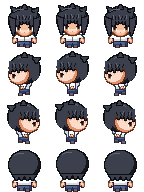
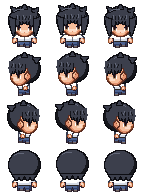
ちびキャラ：横向きの頭と胴体を手本に合わせる（顔の位置、耳、前髪、目、鼻、明暗、後ろ髪、胴の幅、手、足）
Claude-Session: https://claude.ai/code/session_017gxvkc2TW4xYgG5MuSL3N1

diff --git a/files.js b/files.js
@@ -2,7 +2,7 @@
 // マップなどを足したら scripts に1行足す（順番どおりに読み込む。main.js は最後）。
 // 版の番号 v は tools/stamp.py が書き換える。
 window.FILES = {
-  v: '20261127043822',
+  v: '20261127044305',
   scripts: [
     'engine/core.js',
     'engine/world.js',

diff --git a/tools/sprites/make_chibi.py b/tools/sprites/make_chibi.py
@@ -118,18 +118,23 @@ def body(a, c, side, step, back):
     girl = c['girl']
     la, ra = {0: (1.2, 0), 1: (0, 0), 2: (0, 1.2)}[step]
     if side == 'left':
-        sw = {0: -1.6, 1: 0, 2: 1.6}[step]
+        # 横向き：胴は細く（9〜11ドット）、手は胴の中ほどより後ろ。前（左）がマイナス
+        sw = {0: -1, 1: 0, 2: 1}[step]
         if girl:
-            a.part([('p', [(-5.8, 37.4), (5.8, 37.4), (7.6, 43.6), (-7.6, 43.6)])], c['low1'], c['low2'], shade=c['low2'], line=c['line'], lw=0.7)
-            for x in (-3, 1, 5):  # 折り目
-                a.dots(x, 41 if x != 5 else 42, ['p'] * (3 if x != 5 else 2), {'p': c['low2']})
+            a.part([('p', [(-5.4, 38.4), (3.8, 38.4), (5, 43.6), (-6.8, 43.6)])], c['low1'], c['low2'], shade=c['low2'], line=c['line'], lw=0.7)
+            for x, y0 in ((-3, 41), (0, 41), (3, 42)):  # 折り目
+                a.dots(x, y0, ['p'] * (44 - y0), {'p': c['low2']})
         else:
-            a.part([('p', [(-4.2, 38.6), (4.2, 38.6), (4.4, 43.6), (-4.4, 43.6)])], c['low1'], c['low2'], shade=c['low2'], line=c['line'], lw=0.7)
-        a.part([('p', [(-3.8, 35.4), (4, 35.4), (4.4, 40.4), (-4.2, 40.4)]), ('e', -6.4, 33, 6.4, 38.2)], c['top1'], c['top2'], shade=c['top2'], line=c['topLine'], lw=0.7)
-        a.part([('p', [(-1.8, 34.4), (2, 34.4), (2 + sw, 38.6), (-1.8 + sw, 38.6)])], c['top1'], c['top2'], line=c['topLine'], lw=0.6)
-        a.dots(round(sw) - 2, 38, ['.oKE', 'oMMK', 'oLdK', '.EE.'], {'o': c['handO'], 'd': c['handO'], 'E': c['line'], 'K': c['skinS'], 'L': c['skin2'], 'M': c['skin1']})
+            a.part([('p', [(-5, 40.6), (3.6, 40.6), (4, 44.6), (-5.4, 44.6)])], c['low1'], c['low2'], shade=c['low2'], line=c['line'], lw=0.7)
+        bottom = 39.4 if girl else 40.4
+        a.part([('p', [(-4.6, 34.6), (3, 34.6), (4.4, 37.6), (4, bottom), (-5.4, bottom), (-5.6, 37.6)])], c['top1'], c['top2'], shade=c['top2'], line=c['topLine'], lw=0.7)
+        if not girl:
+            a.dots(-5, 41, ['bbbbbbbbb'], {'b': c['ribbon1']})
+        # 腕（肩から手へ）と手
+        a.part([('p', [(-0.6, 35.2), (3, 35.2), (3.4 + sw, 38.6), (0 + sw, 38.6)])], c['top1'], c['top2'], line=c['topLine'], lw=0.6)
+        a.dots(sw, 38, ['.oKo.', 'oLMKo', 'oMMKo', 'oKdKE', '.EEE.'], {'o': c['handO'], 'd': c['handO'], 'E': c['line'], 'K': c['skinS'], 'L': c['skin2'], 'M': c['skin1']})
         if girl:
-            a.part([('p', [(-5.4, 34), (-3, 34), (-4, 36.6)])], c['ribbon1'], c['ribbon2'], lw=0.4)
+            a.part([('p', [(-5.2, 35), (-3, 35), (-4, 37.4)])], c['ribbon1'], c['ribbon2'], lw=0.4)
         feet(a, c, 'side', step)
         return
     # 正面。あごの下（35行）から なで肩で始まり、下へ広がる
@@ -180,8 +185,9 @@ def feet(a, c, side, step):
         for x0, l in ((-5, lift[0]), (1, lift[1])):
             a.dots(x0, 45 - l, foot, pal)
     else:
-        if step == 1:
-            a.dots(-3, 45, foot, pal)
+        if step == 1:  # 前後の足が並んで見える（奥の足を先に描く）
+            a.dots(-1, 45, ['olllo', 'odddo', 'odddo'], pal)
+            a.dots(-5, 45, foot, pal)
         else:
             a.dots(1, 44, ['olllo', 'odddo', 'odddo'], pal)  # 奥の足（上がっている）
             a.dots(-6, 45, foot, pal)
@@ -196,8 +202,10 @@ EYE_BOY = ['.EEE.', 'giEEE', 'wiPig', 'wIPIw', 'wKKKw']
 def eye(a, c, cx, flip=False, side=False):
     if isinstance(a, Pixel):
         rows = EYE_GIRL if c['girl'] else EYE_BOY
-        if side:
-            rows = [r[1:] for r in rows]
+        if side:  # 横向き：前（左）が黒目、後ろが白目。4ドット幅
+            rows = [r[::-1][1:] for r in rows]
+            a.dots(round(cx) - 2, 25, rows, {'E': c['lash'], 'P': c['lash'], 'w': (255, 255, 255), 'g': (214, 208, 216), 'i': c['iris1'], 'I': c['iris2'], 'K': c['iris3']})
+            return
         if flip:
             rows = [r[::-1] for r in rows]
         w = len(rows[0])
@@ -277,6 +285,31 @@ def face_shade(a, c, m, hw_top=9):
             a.im.putpixel((X, Y), rgb_t(tone[t]))
 
 
+def side_face_shade(a, c, m):
+    """横顔の明暗：前の縁は濃い影、前寄りの頬（28〜31行）がいちばん明るく、耳に近い後ろほど暗い。あごの段は影色"""
+    tone = {1: c['skin1'], 2: c['skin2'], 3: c['skinS'], 4: c['handO']}
+    px = m.load()
+    for Y in range(FH):
+        xs = [X for X in range(FW) if px[X, Y] > 127]
+        if not xs:
+            continue
+        L, R = min(xs), max(xs)
+        for X in xs:
+            df, db = X - L + 1, R - X + 1
+            t = 2 if Y <= 27 else (1 if df <= 7 else 2) if Y <= 31 else 2 if Y <= 33 else 3
+            if df == 1:
+                t = max(t, 4 if Y >= 29 else 3)
+            elif df == 2 and t == 1:
+                t = 2
+            if db == 1:
+                t = max(t, 4)
+            elif db <= 3:
+                t = max(t, 3)
+            elif db <= 5:
+                t = max(t, 2)
+            a.im.putpixel((X, Y), rgb_t(tone[t]))
+
+
 def rgb_t(c):
     return tuple(c[:3]) + (255,)
 
@@ -295,24 +328,25 @@ def head(a, c, side):
             a.clip(hm, [('e', -11, 8.4, 1, 11.6)], c['hairL'], 0.45, blur=0.6)
         return
     if side == 'left':
-        if girl:
-            a.part([('p', [(1, 14), (15.6, 14), (15, 36), (9, 38.6), (3, 33)])], c['hair1'], c['hair2'], shade=c['hair2'], line=c['hairLine'])
+        # 横向き：顔は頭の前・下寄り（x −12〜+1）、後ろに耳。いちばん前の前髪は額の前に垂れる
+        if girl:  # 後ろ髪はあごの高さまで
+            a.part([('p', [(1, 14), (15.6, 14), (15.4, 32.6), (10.4, 35.2), (3, 32)])], c['hair1'], c['hair2'], shade=c['hair2'], line=c['hairLine'])
         hm = a.part([('e', -14.2, 7 if girl else 6.4, 14.6, 33)], c['hair1'], c['hair2'], shade=c['hair2'], line=c['hairLine'])
-        fm = a.part([('e', -15.4, 15.6, 3.6, 33.6)], c['skin1'], c['skin2'], shade=c['skinS'], line=c['skinLine'], lw=0.6)
-        a.clip(fm, [('r', -16, 17, 4, 19.4)], c['skinS'], 0.5, blur=0.8)
-        bangs(a, c, -15.2, 3, [(-15.6, -12, 22.6), (-11.6, -8.6, 20.6), (-8, -5, 21.8), (-4.4, -1.4, 20.4), (-0.8, 2.6, 21.4)], base=18, face=fm)
-        sideline = None if isinstance(a, Pixel) else c['hairLine']
-        sm = a.part([('p', [(4.6, 14), (14.4, 14), (14, 28.4), (8.6, 32.4), (5.6, 26)])], c['hair1'], c['hair2'], shade=None if isinstance(a, Pixel) else c['hair2'], line=sideline, lw=0.7)
+        fm = a.part([('e', -12.6, 16, 2.8, 34.6)], c['skin1'], c['skin2'], shade=c['skinS'], line=c['skinLine'], lw=0.6)
         if isinstance(a, Pixel):
-            a.tint(ImageChops.multiply(ImageChops.subtract(sm.filter(ImageFilter.MaxFilter(3)), sm), fm), c['hairLine'], 1.0)
+            side_face_shade(a, c, fm)
+            a.dots(-14, 29, ['lN', 'lN'], {'l': c['skinLine'], 'N': c['handO']})  # 鼻：顔の線が1ドット前に出る
+        bangs(a, c, -15.2, 3, [(-16, -12.4, 25.4), (-12.6, -9, 23.4), (-9.2, -5.6, 24.2), (-5.8, -2.4, 23), (-2.6, 1, 22.4)], base=18, face=fm)
+        # 耳（顔の後ろ）
+        a.part([('e', 1, 23.6, 4.6, 29.6)], c['skin2'], c['skin2'], shade=c['skinS'], line=c['skinLine'], lw=0.6)
         if isinstance(a, Pixel):
+            a.dots(3, 25, ['3', '4'], {'3': c['skinS'], '4': c['handO']})
             a.stroke([(-6, 9), (-2, 7), (3, 7)], c['hairL'])
         else:
             a.clip(hm, [('e', -8, 8.4, 6, 11.6)], c['hairL'], 0.45, blur=0.6)
-        eye(a, c, -10.4, side=True)
+        eye(a, c, -5, side=True)
         if girl:
-            a.blob(-13.4, 29.8, -10, 31.4, c['blush'], 0.45, 0.6)
-        a.dots(-14, 31, ['n'], {'n': c['skinS']})  # 鼻（点）
+            a.blob(-11.6, 29.8, -8.4, 31.4, c['blush'], 0.45, 0.6)
         if girl:
             a.part([('p', [(6, 9.6), (9.6, 8), (10.4, 9.8), (6.8, 11.4)])], c['ribbon1'], c['ribbon2'], lw=0.4)
         if not girl:

diff --git a/CLAUDE.md b/CLAUDE.md
@@ -10,7 +10,7 @@
 - 校舎（廊下8枚と部屋の型）は `tools/gen_school.py` で生成する。生成した `data/maps/school_*.js` は直接直さず、スクリプトを直して作り直す。お話のイベントは `data/story.js` に `G.addEvents` で足す（`at: '扉の名前'` で位置を決められる）。見取り図の施設名のうち学校が特定されそうな名前は一般的な名前に変える
 - 参考にした市販ゲームのファイル（データ・画像・音・シナリオ）はこのリポジトリに入れない
 - タイル素材（ドット絵世界）は二次配布禁止。元のPNGは入れず、`tools/encode_tileset.py` で変換した `data/tilesets/*.js` だけを入れる。タイトル画面の著作権表示（system.js の credits）は消さない
-- キャラの歩行グラフィックは、いまはちびキャラ（手本：RPGツクールMVの標準キャラの比率、約1.5頭身、1コマ48×48px）。`tools/sprites/make_chibi.py` で描き、`img/chars/haru_chibi.png`・`img/chars/yui_chibi.png` に書き出す。塗りは手本と同じくっきりしたドット絵（48×48pxに直接描く。ベタ塗り、段をつけた影と光、部品ごとに1ドットの濃い輪郭、目は1ドットずつ形を決め、白い光はほぼ使わず外側の白目と上が濃い瞳で表す。髪のかたまりは小さめで額は高め、前髪には毛束の明るい筋を1本おきに入れて凹凸を出す。女子の髪は5段（光・明・中・暗・影）で束ごとに塗り分ける（make_chibi.py の hair_shade。頭頂はつむじから放射状の束で境目に暗い線、頭の丸みに沿って束ごとに上下へずれたギザギザの天使の輪（束の真ん中だけ光の色）、前髪は束ごとに上が明るく下ほど暗く真ん中に光の筋、横・後ろの髪は縦の束で左が明るく右と下が暗い。髪型が手本と違うので、ここは手本を写さず工夫したもの）。胴は肩が細く裾へ広がる八の字で、腕も外へ開く。前髪の毛先は目の上端に接するまで下ろし、真ん中の毛束だけ短くしてそのすき間から額をのぞかせる。前髪のすぐ下の肌には影（1段目は影色、2段目は中間色）。顔の横の髪で、目の外側の端からあごの近くまで顔を縁取る（男子は細く短め）。肌は桃色がかった色（白っぽくしない）。顔は上下と左右に4段（明・中間・影・濃い影）の明暗をドット単位でつけて立体感を出す（前髪の下は中間色→目の下から頬の段がいちばん明るい→その下は中間色→あごの段は影色。左右の端は内側へ濃い影→影→中間色、頬の段は影を1段多く）。目はまるごと見せる。やや上から見下ろしつつ足先まで全身を見せる（胴→スカート／ズボン→脚1ドット（女子は肌色）→靴2ドット（上が明るく下が暗い）。左右の足は幅5ドット（輪郭＋中身3）で間に1ドットのすき間。歩くと上げた足が1ドット上がる）。目は顔の大きさを変えずに大きく、5×5ドット（上まつげは3ドット幅で2段目が内側へ1ドットずれる斜め、黒目3ドット幅で上が濃く一番下が明るい、真ん中に縦2ドットの瞳孔、白目は外側3段・内側2段の両側）。目の間は7ドットで、目の外側は顔の縁（横の髪）に接する。見下ろす角度なので、肩はあごのすぐ下の行から始まり（上の面が明るく見える）、なで肩で下へ広がる。手は丸ではなくミトン形（幅4×高さ5、外側の輪郭は茶色・内側と下は濃い線で腕と胴の境目にもなる、明るい肌は真ん中上寄りに2×2、下の段の内側が欠けてその上に親指の付け根の点）。服の輪郭も濃い色。男子はシャツ6段・ベルト1段・ズボン3段（明るめの色、股の線）。女子のスカートは下半分に、地より濃い色の縦の折り目の線（中心をはさんで4ドット間隔の2本と、裾の両端寄り）。口は省いて鼻を1ドットの点で表す（頬のいちばん明るい段の最後の行、31行目）。幅の割合は、手を含めた体が頭の約8割。その中で胴は細く、肩と手を大きめにする）。手本を使うときは、数字で測るだけでなく必ず拡大して絵そのものを見比べる。「イラストを縮めた柔らかい塗り」は4頭身のための試しで、ちびキャラには使わない。3頭身・4頭身は見送り。約4頭身の版（`make_trial.py`→`trial.png`、`make_haru.py`→`haru.png`）も残してある。手本の絵は写さない（比率と描き方だけ合わせる）。直したらスクリプトを動かして画像を作り直す
+- キャラの歩行グラフィックは、いまはちびキャラ（手本：RPGツクールMVの標準キャラの比率、約1.5頭身、1コマ48×48px）。`tools/sprites/make_chibi.py` で描き、`img/chars/haru_chibi.png`・`img/chars/yui_chibi.png` に書き出す。塗りは手本と同じくっきりしたドット絵（48×48pxに直接描く。ベタ塗り、段をつけた影と光、部品ごとに1ドットの濃い輪郭、目は1ドットずつ形を決め、白い光はほぼ使わず外側の白目と上が濃い瞳で表す。髪のかたまりは小さめで額は高め、前髪には毛束の明るい筋を1本おきに入れて凹凸を出す。女子の髪は5段（光・明・中・暗・影）で束ごとに塗り分ける（make_chibi.py の hair_shade。頭頂はつむじから放射状の束で境目に暗い線、頭の丸みに沿って束ごとに上下へずれたギザギザの天使の輪（束の真ん中だけ光の色）、前髪は束ごとに上が明るく下ほど暗く真ん中に光の筋、横・後ろの髪は縦の束で左が明るく右と下が暗い。髪型が手本と違うので、ここは手本を写さず工夫したもの）。胴は肩が細く裾へ広がる八の字で、腕も外へ開く。前髪の毛先は目の上端に接するまで下ろし、真ん中の毛束だけ短くしてそのすき間から額をのぞかせる。前髪のすぐ下の肌には影（1段目は影色、2段目は中間色）。顔の横の髪で、目の外側の端からあごの近くまで顔を縁取る（男子は細く短め）。肌は桃色がかった色（白っぽくしない）。顔は上下と左右に4段（明・中間・影・濃い影）の明暗をドット単位でつけて立体感を出す（前髪の下は中間色→目の下から頬の段がいちばん明るい→その下は中間色→あごの段は影色。左右の端は内側へ濃い影→影→中間色、頬の段は影を1段多く）。目はまるごと見せる。やや上から見下ろしつつ足先まで全身を見せる（胴→スカート／ズボン→脚1ドット（女子は肌色）→靴2ドット（上が明るく下が暗い）。左右の足は幅5ドット（輪郭＋中身3）で間に1ドットのすき間。歩くと上げた足が1ドット上がる）。目は顔の大きさを変えずに大きく、5×5ドット（上まつげは3ドット幅で2段目が内側へ1ドットずれる斜め、黒目3ドット幅で上が濃く一番下が明るい、真ん中に縦2ドットの瞳孔、白目は外側3段・内側2段の両側）。目の間は7ドットで、目の外側は顔の縁（横の髪）に接する。見下ろす角度なので、肩はあごのすぐ下の行から始まり（上の面が明るく見える）、なで肩で下へ広がる。手は丸ではなくミトン形（幅4×高さ5、外側の輪郭は茶色・内側と下は濃い線で腕と胴の境目にもなる、明るい肌は真ん中上寄りに2×2、下の段の内側が欠けてその上に親指の付け根の点）。服の輪郭も濃い色。男子はシャツ6段・ベルト1段・ズボン3段（明るめの色、股の線）。女子のスカートは下半分に、地より濃い色の縦の折り目の線（中心をはさんで4ドット間隔の2本と、裾の両端寄り）。口は省いて鼻を1ドットの点で表す（頬のいちばん明るい段の最後の行、31行目）。幅の割合は、手を含めた体が頭の約8割。その中で胴は細く、肩と手を大きめにする）。横向き（左向き、前がマイナス）：顔は頭の前・下寄り（x −12〜+1）で、後ろに4×6ドットの耳。いちばん前の前髪は額の前に垂れる。目は顔の前端から4ドット後ろ、前が黒目で後ろが白目。鼻は顔の線が1ドット前に出る形。明暗は前の縁が濃い影、前寄りの頬が最も明るく、耳に近い後ろほど暗い。女子の後ろ髪はあごの高さまで。胴は細く（9〜11ドット）、手は胴の中ほどより後ろに4×5ドット、立ち姿は前後の足が並んで見える。手本を使うときは、数字で測るだけでなく必ず拡大して絵そのものを見比べる。「イラストを縮めた柔らかい塗り」は4頭身のための試しで、ちびキャラには使わない。3頭身・4頭身は見送り。約4頭身の版（`make_trial.py`→`trial.png`、`make_haru.py`→`haru.png`）も残してある。手本の絵は写さない（比率と描き方だけ合わせる）。直したらスクリプトを動かして画像を作り直す
 - 字体：ゲームの文字は M+ 1m（`fonts/mplus-1m-regular.ttf`、M+ FONTS は自由に使用・配布できる）。`G.font()` と css/style.css で指定している。収録外の文字（♪など）は端末のフォントになる
 - 公開は gh-pages ブランチから。更新したら、まず `python3 tools/stamp.py`（files.js の版の番号を新しくする。ブラウザが古いファイルを使い回して新旧が混ざるのを防ぐ）、コミットして `git push origin main main:gh-pages` で両方に送る。そのあと `gh api repos/nzanke/game-test/actions/runs` で「pages build and deployment」が新しいコミットで completed success になったのを確かめてから報告する。ビルドが走らないときは空のコミットを送り直す（Pages 設定のAPIは作業環境から使えない）
 - やりとりと説明は日本語で
